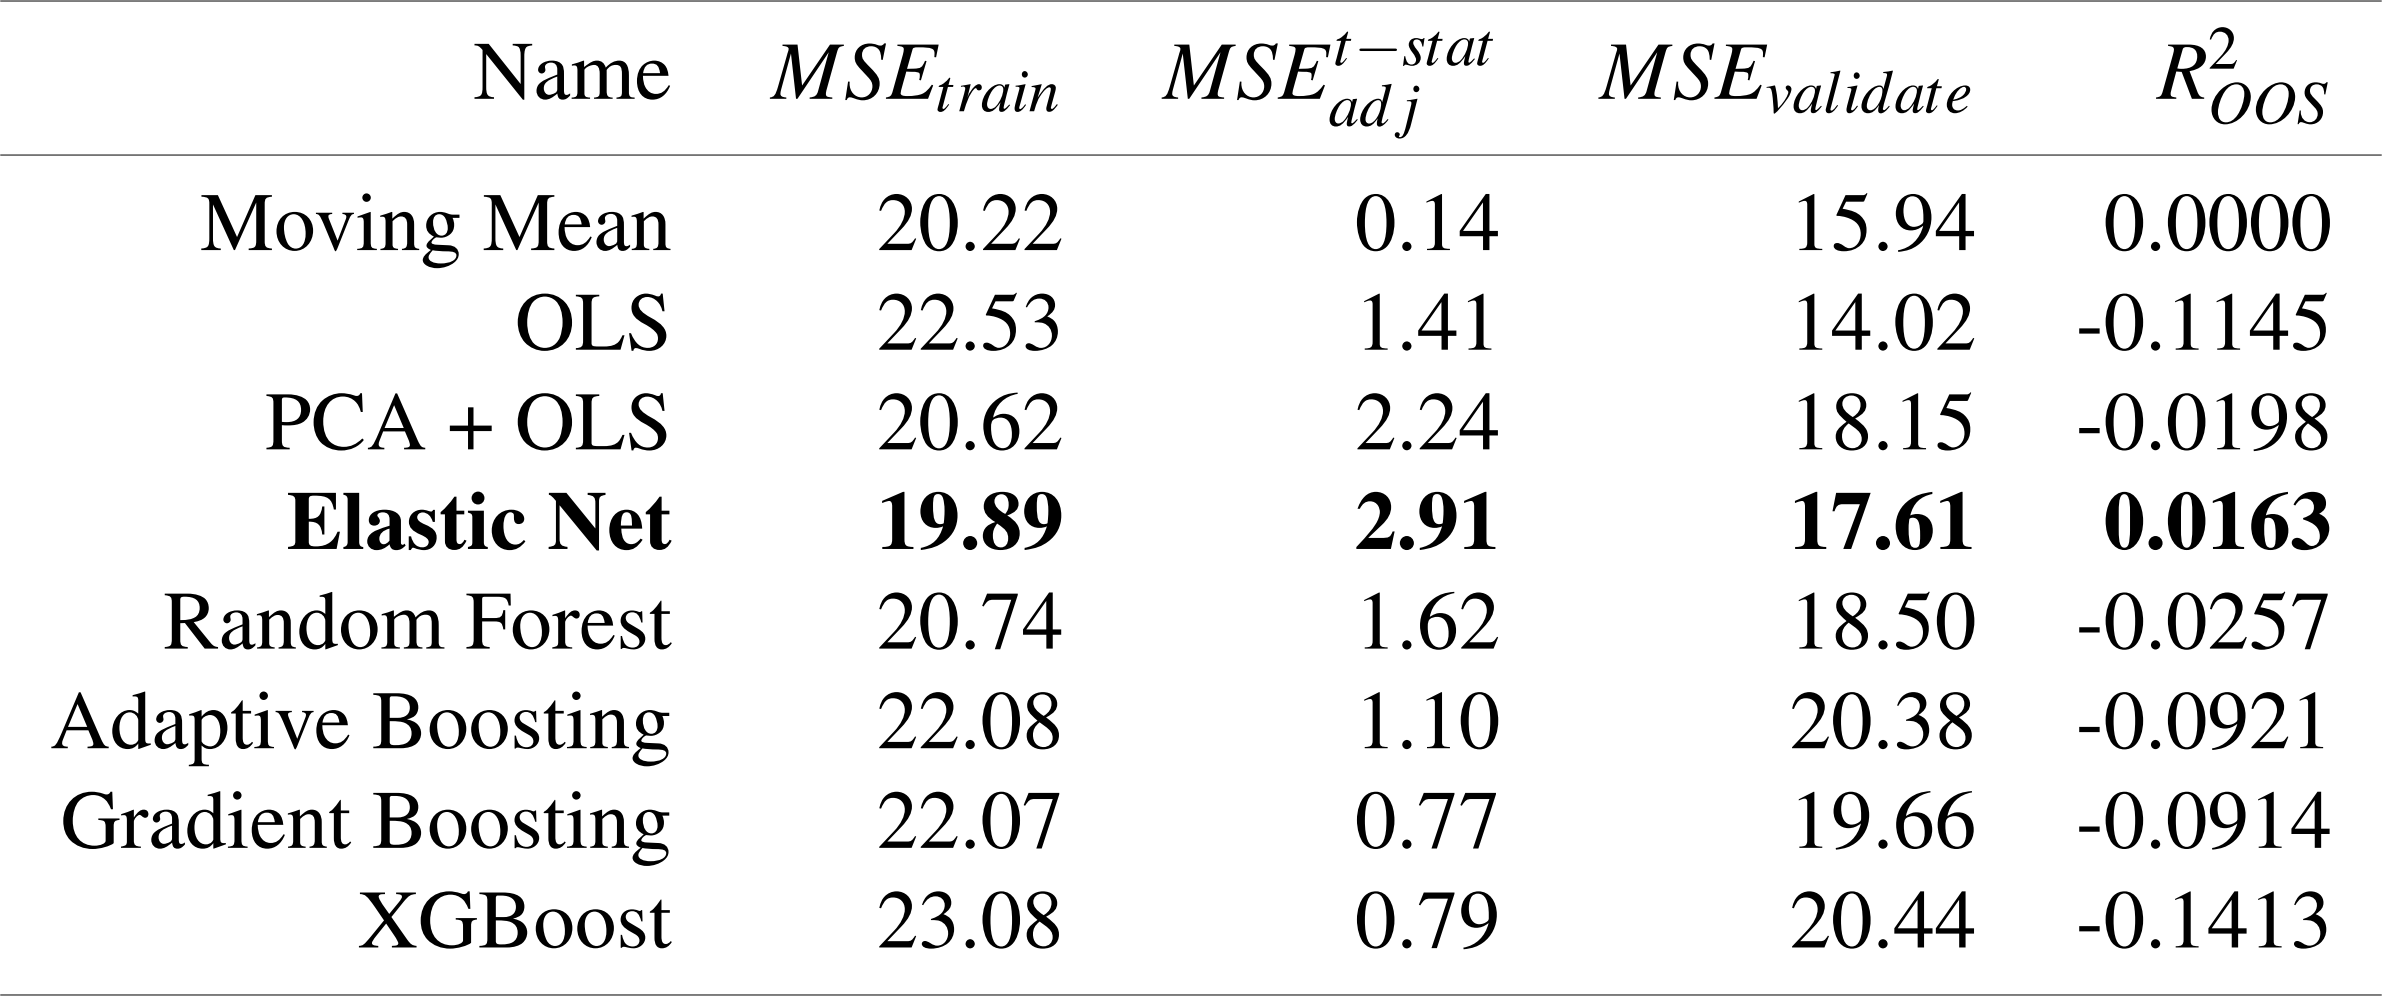
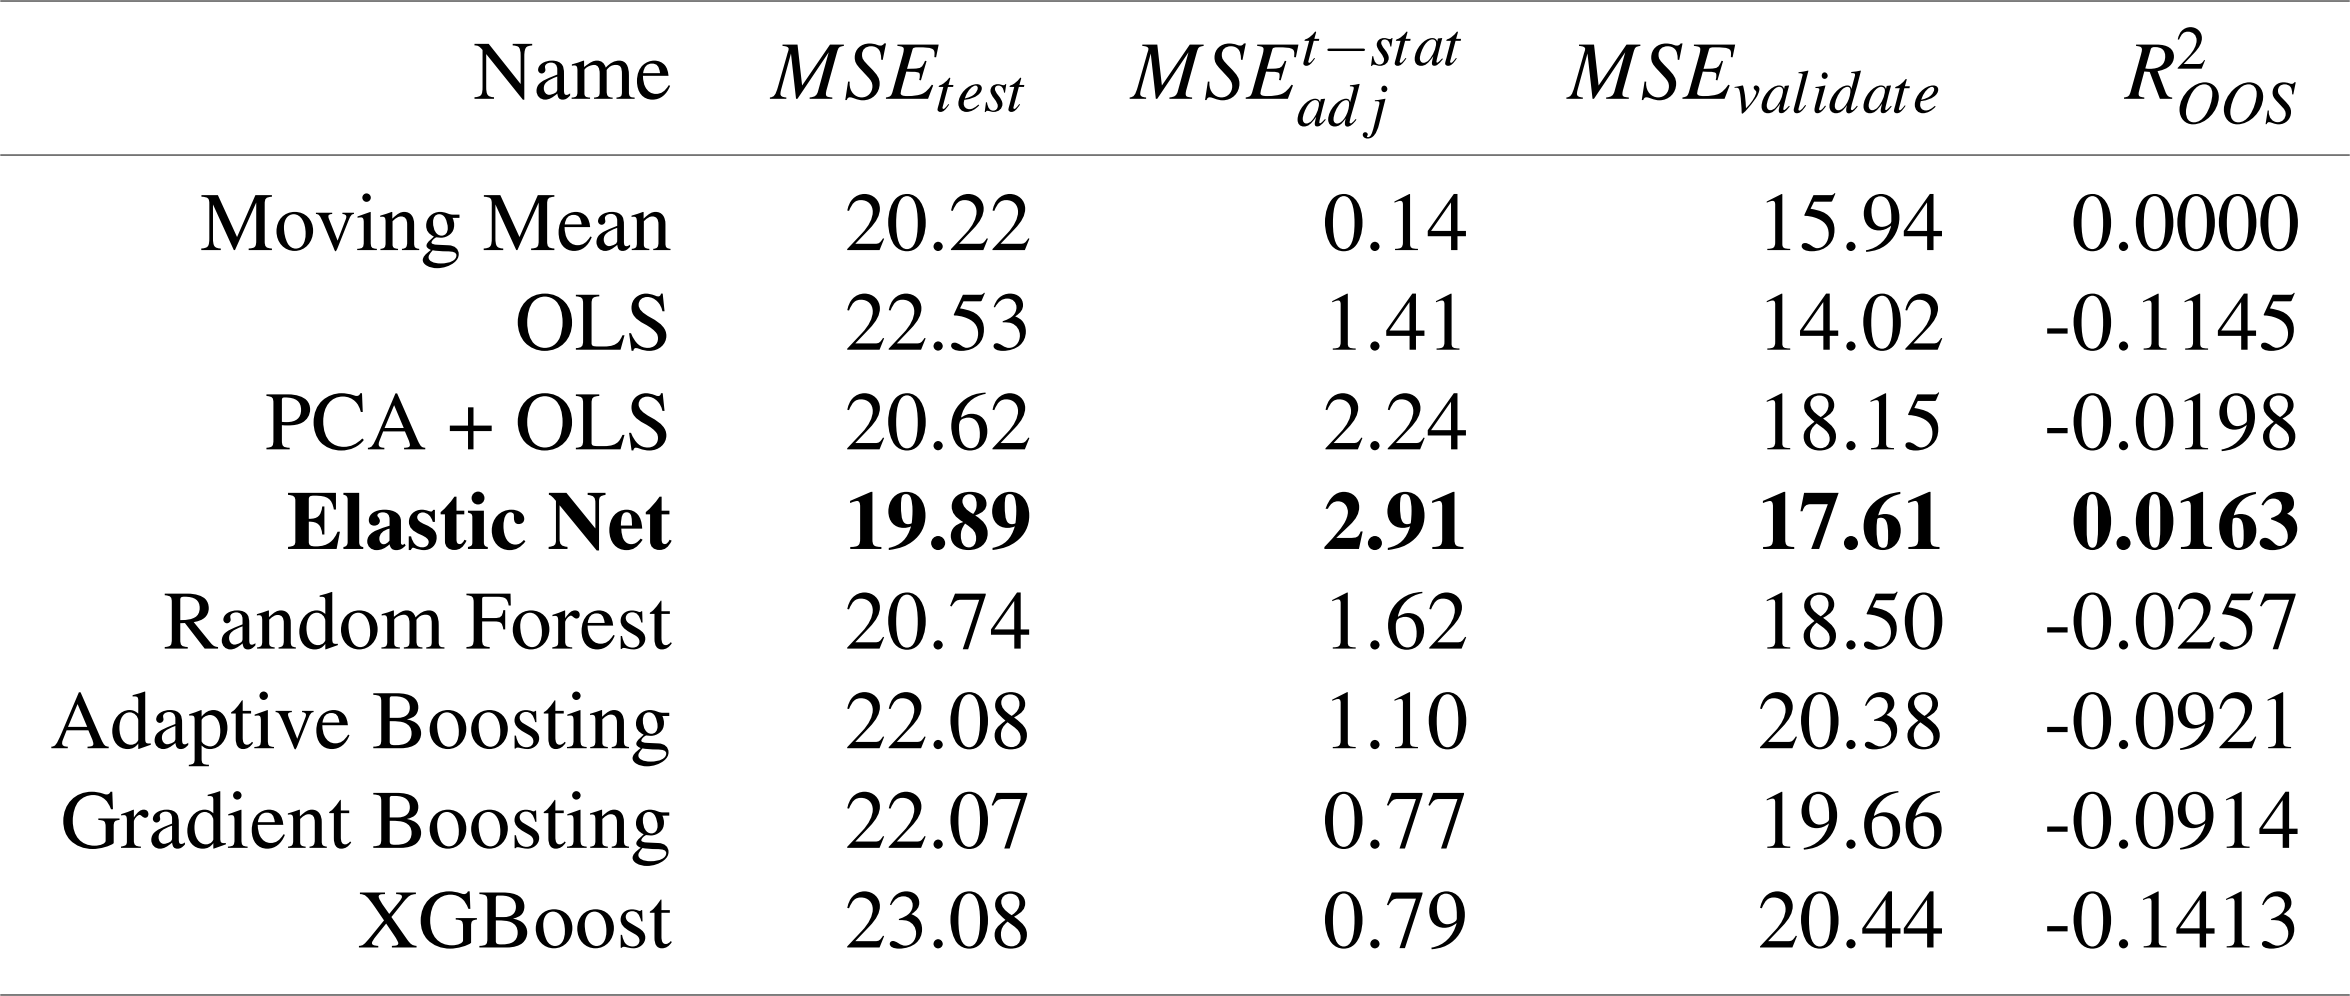
Made correction Test

diff --git a/src/analysis.py b/src/analysis.py
@@ -157,7 +157,7 @@ for cname, config in CONFIGS.items():
     #%% #--------------------------------------------------
     #* Save results_dict to the CSV file
     results_dict = {}
-    results_dict['name'] = config['name'] 
+    results_dict['name'] = config['name']
     results_dict['r2_oos'] = r2_oos
     results_dict['msfe_adj'] = msfe_adj
     results_dict['mse_oos'] = mse_oos

diff --git a/reports/Report.md b/reports/Report.md
@@ -89,4 +89,12 @@ uncheck
   - Other indexes/asset classes
   - add more various predictors
   - Weekly/daily data frequency
- - Potential to contribute to the scikit-learn package by adding expanding window nested cross-validation
+ - Potential to contribute to the scikit-learn package by adding expanding and rolling window nested cross-validation methods
+
+
+| Name           | $MSE_{test}$ | $MSE_{adj}^{ t-stat}$  | $MSE_{validate}$ | $R^2_{OOS} |
+|----------------|--------------|------------------------|------------------|------------|
+| enet_nocv      | 20.11        | 1.28                   | 15.73            | 0.0054     |
+| enet_5cv       | 20.04        | 2.20                   | 15.38            | 0.0091     |
+| enet_10cv      | 19.97        | 2.73                   | 15.27            | 0.0121     |
+| enet_expanding | 19.89        | 2.91                   | 17.61            | 0.0163     |
